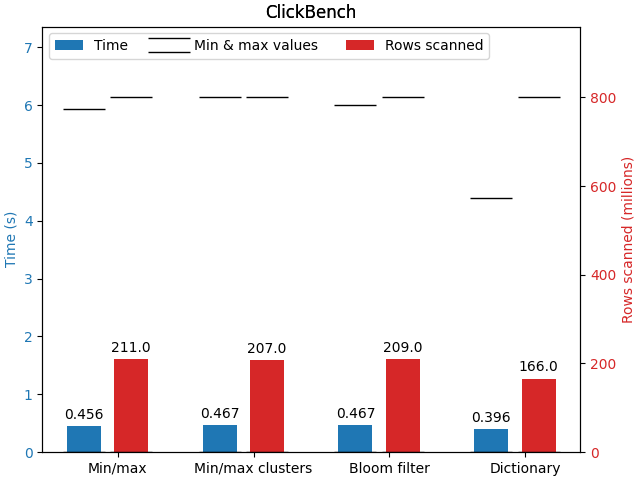
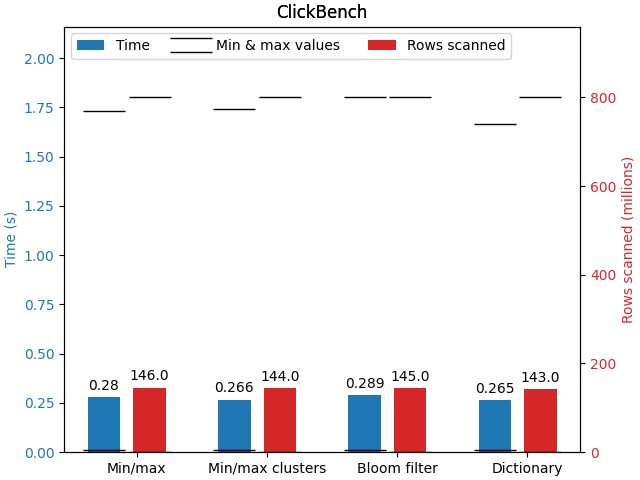
removed between case as it was causing issues added missing queries to clickbench

diff --git a/src/storage/table/row_group.cpp b/src/storage/table/row_group.cpp
@@ -467,40 +467,38 @@ bool RowGroup::CheckZonemapSegments(CollectionScanState &state) {
 		auto base_column_idx = entry.table_column_index;
 		auto &filter = entry.filter;
 
-		bool between_case_skip = false;
+		// bool between_case_skip = false;
 
-		if (filter.filter_type == TableFilterType::CONJUNCTION_AND) {
-			auto &and_filter = filter.Cast<ConjunctionAndFilter>();
-			for (auto &child_filter : and_filter.child_filters) {
-				if (child_filter->filter_type == TableFilterType::CONSTANT_COMPARISON) {
-					auto &comp = child_filter->Cast<ConstantFilter>();
-					if (comp.comparison_type == ExpressionType::COMPARE_GREATERTHAN ||
-					    comp.comparison_type == ExpressionType::COMPARE_GREATERTHANOREQUALTO) {
-						contains_greaterthan[base_column_idx] = true;
-						lower_value[base_column_idx] = comp.constant;
-					}
-					if (comp.comparison_type == ExpressionType::COMPARE_LESSTHAN |
-					    comp.comparison_type == ExpressionType::COMPARE_LESSTHANOREQUALTO) {
-						contains_lessthan[base_column_idx] = true;
-						upper_value[base_column_idx] = comp.constant;
-					}
-					if (contains_greaterthan[base_column_idx] && contains_lessthan[base_column_idx]) {
-						// check if the filter is between 2 clusters (if we are using cluster stats)
-						between_case_skip =
-						    ColumnData::RangeQueryAdditionalStats(
-						        state.column_scans[column_idx].current->stats.statistics,
-						        comp.constant.type().InternalType(), lower_value[base_column_idx],
-						        upper_value[base_column_idx]) == FilterPropagateResult::FILTER_ALWAYS_FALSE;
-						// state.column_scans[column_idx].current->stats.statistics.additional_stats_vector;
-					}
-				}
-			}
-		}
+		// if (filter.filter_type == TableFilterType::CONJUNCTION_AND) {
+		// 	auto &and_filter = filter.Cast<ConjunctionAndFilter>();
+		// 	for (auto &child_filter : and_filter.child_filters) {
+		// 		if (child_filter->filter_type == TableFilterType::CONSTANT_COMPARISON) {
+		// 			auto &comp = child_filter->Cast<ConstantFilter>();
+		// 			if (comp.comparison_type == ExpressionType::COMPARE_GREATERTHAN ||
+		// 			    comp.comparison_type == ExpressionType::COMPARE_GREATERTHANOREQUALTO) {
+		// 				contains_greaterthan[base_column_idx] = true;
+		// 				lower_value[base_column_idx] = comp.constant;
+		// 			}
+		// 			if (comp.comparison_type == ExpressionType::COMPARE_LESSTHAN |
+		// 			    comp.comparison_type == ExpressionType::COMPARE_LESSTHANOREQUALTO) {
+		// 				contains_lessthan[base_column_idx] = true;
+		// 				upper_value[base_column_idx] = comp.constant;
+		// 			}
+		// 			if (contains_greaterthan[base_column_idx] && contains_lessthan[base_column_idx]) {
+		// 				check if the filter is between 2 clusters(if we are using cluster stats) between_case_skip =
+		// 				    ColumnData::RangeQueryAdditionalStats(
+		// 				        state.column_scans[column_idx].current->stats.statistics,
+		// 				        comp.constant.type().InternalType(), lower_value[base_column_idx],
+		// 				        upper_value[base_column_idx]) == FilterPropagateResult::FILTER_ALWAYS_FALSE;
+		// 			}
+		// 		}
+		// 	}
+		// }
 
 		auto prune_result = GetColumn(base_column_idx).CheckZonemap(state.column_scans[column_idx], filter);
 		if (prune_result != FilterPropagateResult::FILTER_ALWAYS_FALSE) {
-			if (!between_case_skip)
-				continue;
+			// if (!between_case_skip)
+			// 	continue;
 		}
 
 		// check zone map segment.

diff --git a/src/include/duckdb/storage/statistics/additional/bloom_additional_stats.hpp b/src/include/duckdb/storage/statistics/additional/bloom_additional_stats.hpp
@@ -26,7 +26,7 @@ private:
 
 	// for register-sized blocks
 	constexpr static uint32_t K = 1;
-	constexpr static uint32_t BLOCK_COUNT = 500;
+	constexpr static uint32_t BLOCK_COUNT = 250;
 	constexpr static uint32_t BLOCK_SIZE = 1; // the unit here is word lengths (64 bits)
 	uint64_t bit_array[BLOCK_COUNT * BLOCK_SIZE];
 

diff --git a/src/include/duckdb/storage/statistics/additional/dictionary_additional_stats.hpp b/src/include/duckdb/storage/statistics/additional/dictionary_additional_stats.hpp
@@ -16,7 +16,7 @@
 namespace duckdb {
 
 // to allow use of dictionaries only where there are few enough items in a partition
-constexpr static uint32_t MAX_NUMBER_OF_ITEMS = 4000;
+constexpr static uint32_t MAX_NUMBER_OF_ITEMS = 2000;
 
 template <class T>
 class DictionaryAdditionalStats : public AdditionalStats<T> {

diff --git a/src/include/duckdb/storage/statistics/additional/cluster_additional_stats.hpp b/src/include/duckdb/storage/statistics/additional/cluster_additional_stats.hpp
@@ -17,7 +17,7 @@
 
 namespace duckdb {
 
-constexpr static uint32_t MAX_NUMBER_OF_CLUSTERS = 1000;
+constexpr static uint32_t MAX_NUMBER_OF_CLUSTERS = 500;
 constexpr static uint32_t MAX_STRING_MINMAX_SIZE = 8;
 
 template <class T>
